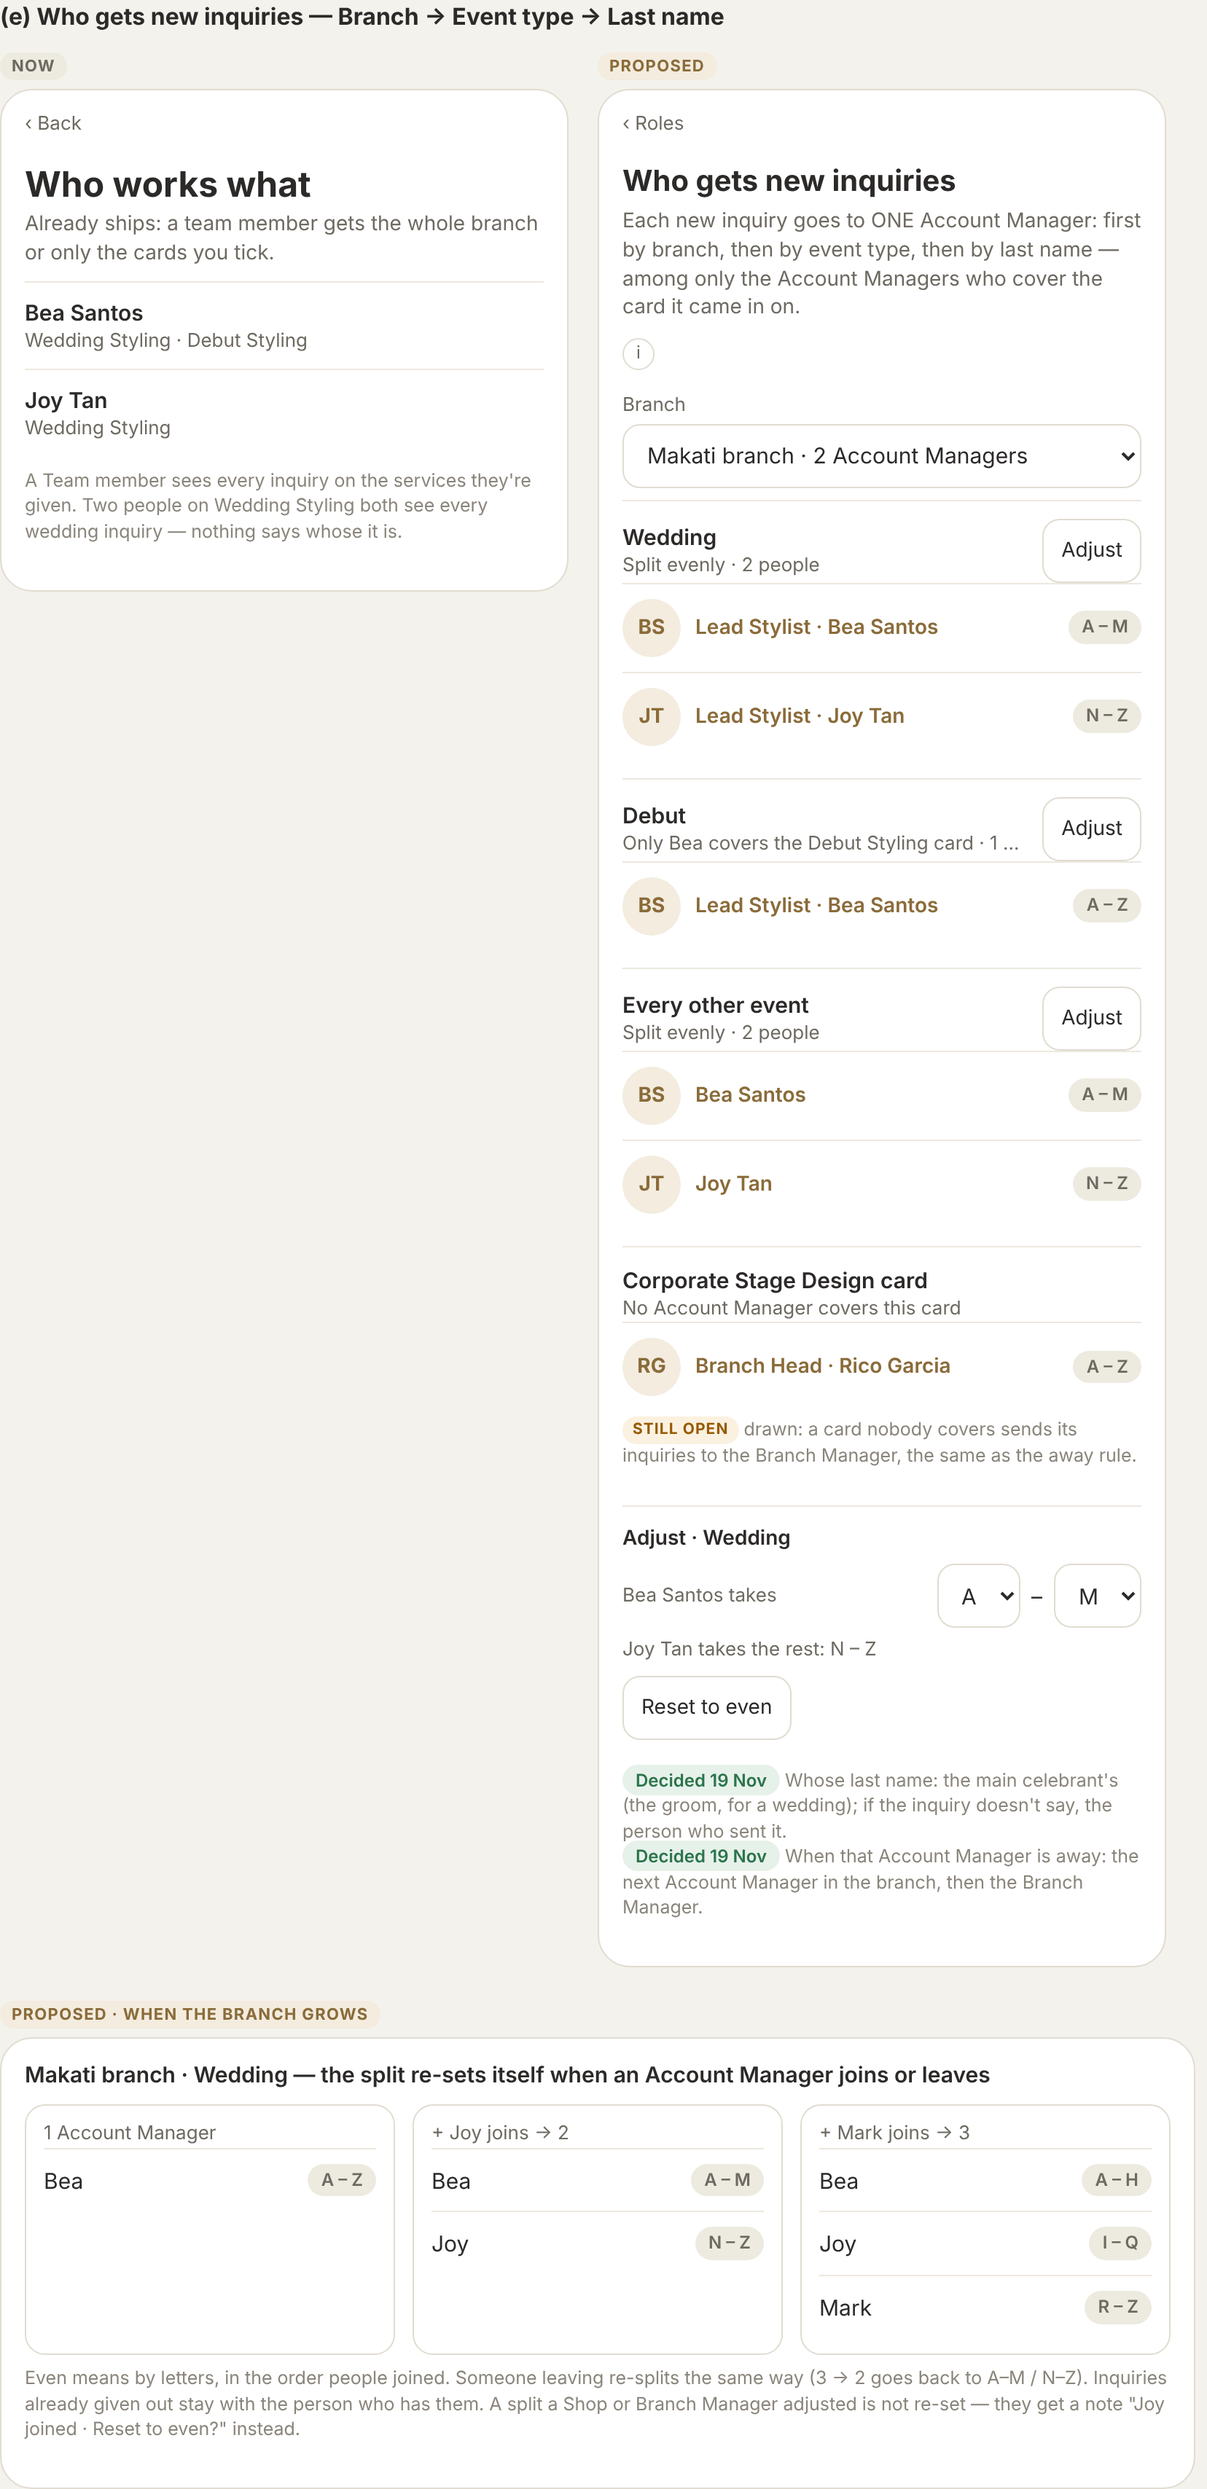
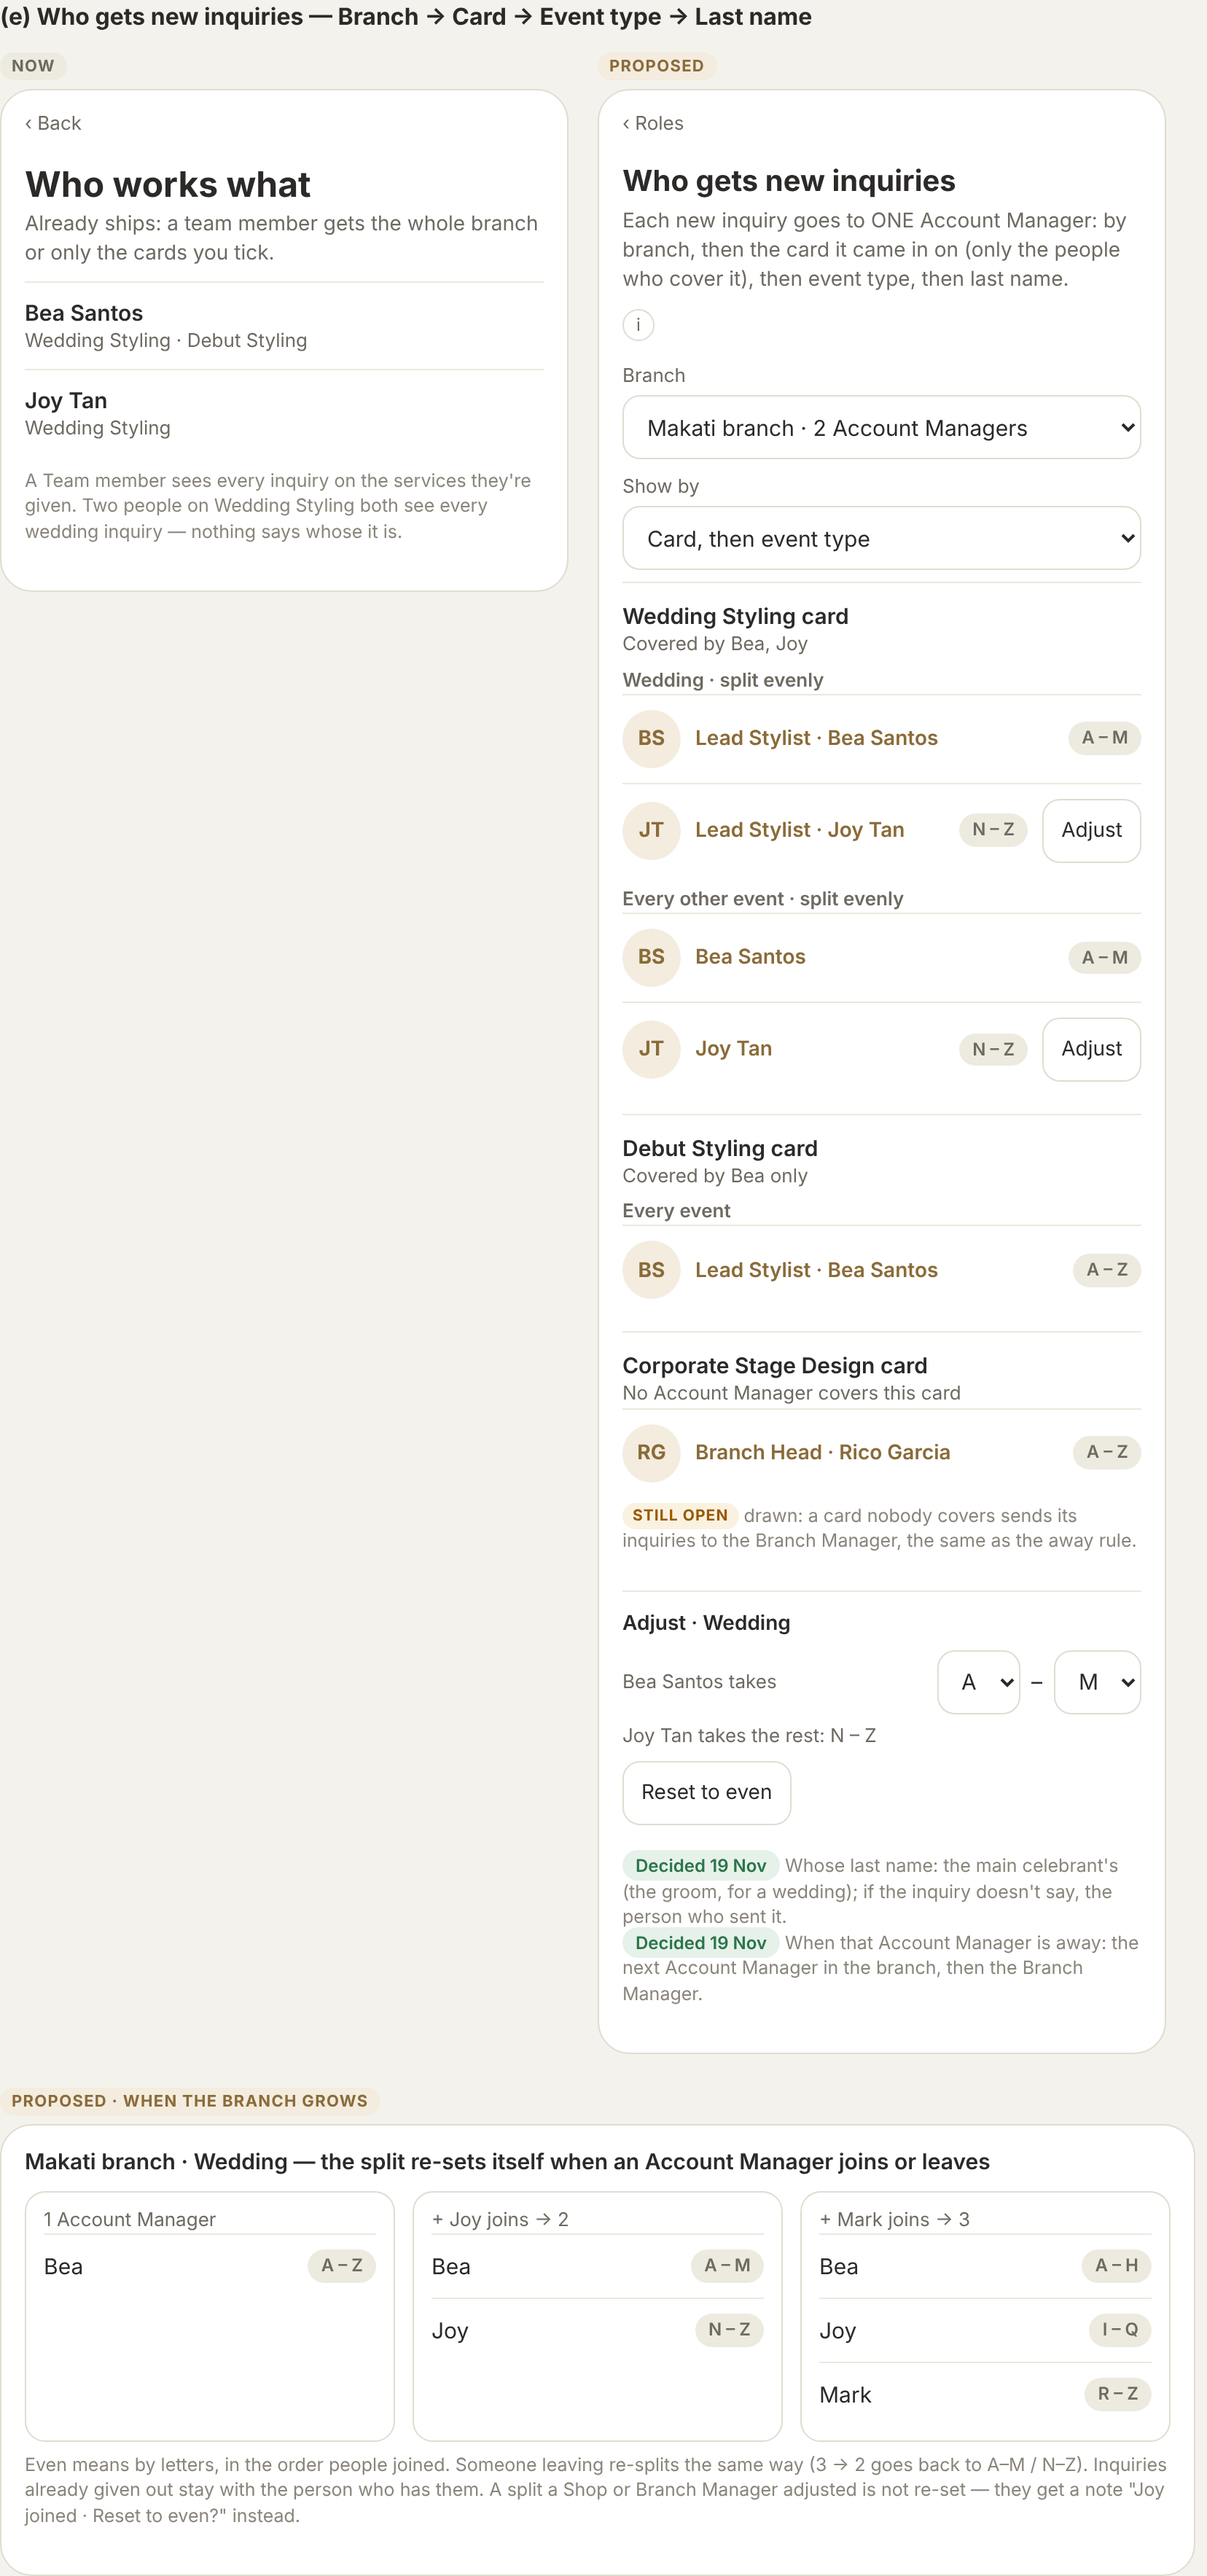
docs(supplier-team): group the routing by card, and Clients › Handled by sets one person per client
Claude-Session: https://claude.ai/code/session_01EvosmSvHajsHkKkQLLinZb

diff --git a/build-sessions/SUPPLIER-ROLES-PAGE-2026-11-19.html b/build-sessions/SUPPLIER-ROLES-PAGE-2026-11-19.html
@@ -79,7 +79,7 @@
 <body>
 <div class="wrap">
   <h1 class="doc">Supplier Roles — for your OK</h1>
-  <p class="doc">Now (what the app draws today) beside Proposed (only what changes). (a) Roles · (b) card · (c) invite · (d) plan → roles · (e) who gets new inquiries. 390&nbsp;px phone. Tap any ⓘ for detail. Nothing here is built yet.</p>
+  <p class="doc">Now (what the app draws today) beside Proposed (only what changes). (a) Roles · (b) card · (c) invite · (d) plan → roles · (e) who gets new inquiries · (f) clients — who handles who. 390&nbsp;px phone. Tap any ⓘ for detail. Nothing here is built yet.</p>
 
   <div class="legend">
     <b>The six roles (your rulings, 19 Nov)</b>
@@ -333,7 +333,7 @@
 
   <!-- ═════════════ (e) WHO GETS NEW INQUIRIES ═════════════ -->
   <section class="pair" id="e">
-    <h2>(e) Who gets new inquiries — Branch → Event type → Last name</h2>
+    <h2>(e) Who gets new inquiries — Branch → Card → Event type → Last name</h2>
     <div class="cols">
       <div class="col">
         <span class="tag now">Now</span>
@@ -355,23 +355,25 @@
           <div class="bar">‹ Roles</div>
           <div class="scr">
             <div class="h1" style="font-size:20px">Who gets new inquiries</div>
-            <p class="sub">Each new inquiry goes to ONE Account Manager: first by branch, then by event type, then by last name — among only the Account Managers who cover the card it came in on.
+            <p class="sub">Each new inquiry goes to ONE Account Manager: by branch, then the card it came in on (only the people who cover it), then event type, then last name.
               <details class="i"><summary>i</summary><div class="pop">The branch is the one the service card is filed under. A Shop Manager or Branch Manager can change any split; a split you change stays until you reset it.</div></details></p>
             <label class="f"><span>Branch</span><select><option selected>Makati branch · 2 Account Managers</option><option>Cebu branch · 1</option><option>Main · Quezon City · 3</option></select></label>
 
+            <label class="f"><span>Show by</span><select><option selected>Card, then event type</option><option>Account Manager</option></select></label>
+
             <div class="role" style="margin-top:8px">
-              <div class="top"><div class="grow"><div class="t">Wedding</div><div class="l">Split evenly · 2 people</div></div><span class="pick btn">Adjust</span></div>
+              <div class="top"><div class="grow"><div class="t">Wedding Styling card</div><div class="l">Covered by Bea, Joy</div></div></div>
+              <div class="l" style="margin:6px 0 0;font-weight:600">Wedding · split evenly</div>
               <div class="row" style="min-height:44px"><span class="ava">BS</span><div class="grow"><div class="rolename">Lead Stylist · Bea Santos</div></div><span class="badge">A – M</span></div>
-              <div class="row" style="min-height:44px"><span class="ava">JT</span><div class="grow"><div class="rolename">Lead Stylist · Joy Tan</div></div><span class="badge">N – Z</span></div>
-            </div>
-            <div class="role">
-              <div class="top"><div class="grow"><div class="t">Debut</div><div class="l">Only Bea covers the Debut Styling card · 1 person</div></div><span class="pick btn">Adjust</span></div>
-              <div class="row" style="min-height:44px"><span class="ava">BS</span><div class="grow"><div class="rolename">Lead Stylist · Bea Santos</div></div><span class="badge">A – Z</span></div>
-            </div>
-            <div class="role">
-              <div class="top"><div class="grow"><div class="t">Every other event</div><div class="l">Split evenly · 2 people</div></div><span class="pick btn">Adjust</span></div>
+              <div class="row" style="min-height:44px"><span class="ava">JT</span><div class="grow"><div class="rolename">Lead Stylist · Joy Tan</div></div><span class="badge">N – Z</span><span class="pick btn">Adjust</span></div>
+              <div class="l" style="margin:6px 0 0;font-weight:600">Every other event · split evenly</div>
               <div class="row" style="min-height:44px"><span class="ava">BS</span><div class="grow"><div class="rolename">Bea Santos</div></div><span class="badge">A – M</span></div>
-              <div class="row" style="min-height:44px"><span class="ava">JT</span><div class="grow"><div class="rolename">Joy Tan</div></div><span class="badge">N – Z</span></div>
+              <div class="row" style="min-height:44px"><span class="ava">JT</span><div class="grow"><div class="rolename">Joy Tan</div></div><span class="badge">N – Z</span><span class="pick btn">Adjust</span></div>
+            </div>
+            <div class="role">
+              <div class="top"><div class="grow"><div class="t">Debut Styling card</div><div class="l">Covered by Bea only</div></div></div>
+              <div class="l" style="margin:6px 0 0;font-weight:600">Every event</div>
+              <div class="row" style="min-height:44px"><span class="ava">BS</span><div class="grow"><div class="rolename">Lead Stylist · Bea Santos</div></div><span class="badge">A – Z</span></div>
             </div>
             <div class="role">
               <div class="top"><div class="grow"><div class="t">Corporate Stage Design card</div><div class="l">No Account Manager covers this card</div></div></div>
@@ -425,6 +427,46 @@
     </div>
   </section>
 
+
+  <!-- ═════════════ (f) CLIENTS · WHO HANDLES WHO ═════════════ -->
+  <section class="pair" id="f">
+    <h2>(f) Clients — see and set who handles who</h2>
+    <div class="cols">
+      <div class="col">
+        <span class="tag now">Now</span>
+        <div class="phone">
+          <div class="bar">Clients</div>
+          <div class="scr">
+            <label class="f" style="margin-top:0"><span>Group by</span><select><option>Status</option><option>Day</option><option selected>Handled by</option></select></label>
+            <div class="l" style="margin:14px 0 2px;font-weight:600">Bea Santos · Joy Tan</div>
+            <div class="row"><div class="grow"><div class="t">Dela Cruz wedding</div><div class="l">Wedding Styling · Sat 12 Dec</div></div></div>
+            <div class="row"><div class="grow"><div class="t">Tan &amp; Lim wedding</div><div class="l">Wedding Styling · Sun 17 Jan</div></div></div>
+            <div class="l" style="margin:14px 0 2px;font-weight:600">Bea Santos</div>
+            <div class="row"><div class="grow"><div class="t">Ramos debut</div><div class="l">Debut Styling · Sat 5 Dec</div></div></div>
+            <p class="note">"Handled by" is everyone on the card, so both people sit on every wedding client. Nobody can be set as THE person for one client.</p>
+          </div>
+        </div>
+      </div>
+
+      <div class="col">
+        <span class="tag new">Proposed</span>
+        <div class="phone">
+          <div class="bar">Clients</div>
+          <div class="scr">
+            <label class="f" style="margin-top:0"><span>Group by</span><select><option>Status</option><option>Day</option><option selected>Handled by</option><option>Branch</option><option>Card</option></select></label>
+            <div class="l" style="margin:14px 0 2px;font-weight:600">Lead Stylist · Bea Santos · Makati</div>
+            <div class="row"><div class="grow"><div class="t">Dela Cruz wedding</div><div class="l">Wedding Styling · Sat 12 Dec · by last name D</div></div><span class="pick">Bea</span></div>
+            <div class="row"><div class="grow"><div class="t">Ramos debut</div><div class="l">Debut Styling · Sat 5 Dec · only Bea covers it</div></div><span class="pick">Bea</span></div>
+            <div class="l" style="margin:14px 0 2px;font-weight:600">Lead Stylist · Joy Tan · Makati</div>
+            <div class="row"><div class="grow"><div class="t">Tan &amp; Lim wedding</div><div class="l">Wedding Styling · Sun 17 Jan · by last name T</div></div><span class="pick">Joy</span></div>
+            <div class="row" style="flex-wrap:wrap"><div class="grow"><div class="t">Santiago</div><div class="l">2 bookings · Wedding Styling + Corporate Stage Design</div></div><span class="pick">Joy</span>
+              <details class="i" open><summary>i</summary><div class="pop">The routing picks the first person. "Handled by ▾" on any client moves them to someone else in the branch, and the move sticks — new splits never take a client away.<br><span class="confirm">STILL OPEN</span> a client with bookings on two cards: one person for all of them (drawn), or one per booking?</div></details></div>
+            <p class="note">Each client has ONE person. A Shop Manager or Branch Manager changes it with "Handled by ▾"; an Account Manager sees only their own group.</p>
+          </div>
+        </div>
+      </div>
+    </div>
+  </section>
 </div>
 </body>
 </html>

diff --git a/build-sessions/SUPPLIER-ROLES-MAP-2026-11-19.md b/build-sessions/SUPPLIER-ROLES-MAP-2026-11-19.md
@@ -167,6 +167,16 @@ Proposed:
   celebrant's last name (the groom for a wedding), falling back to the sender's when the inquiry has none · when that Account Manager is away
   — *"yes"*: the next Account Manager in the branch, then the Branch Manager.
 
+## 3d · Clients — see and set who handles who (owner 19 Nov: *"categorize them … so we can set who handles who"*)
+
+EXTENDS the shipped Clients page (`app/vendor-dashboard/customers/clients-show-sort.ts`): `CLIENTS_GROUP` already has
+Status · Day · **Handled by** (`group=seat`), and `groupKeyOf('seat')` today heads each client with EVERY seat on its
+card (`seatsOf` → "Bea Santos · Joy Tan") — so today one client already sits under two people and nobody is THE person.
+Delta: "Handled by" reads the client's one `assigned_member_id` (from 3c); `CLIENTS_GROUP` gains Branch and Card; each
+client row gets a "Handled by ▾" (Shop / Branch Manager only) whose choice sticks — a re-split never moves a client.
+The roles page (e) groups the routing the same way: Branch ▾ → card → event type → A–Z.
+**STILL OPEN:** a client with bookings on two cards — one person for all (drawn) or one per booking.
+
 ## 4 · Order of work (after the owner OKs the drawing)
 
 1. PR A — migration (`duty`, `branch_id`, `vendor_role_names`, rank trigger, backfill, two helpers, RLS at create) +
